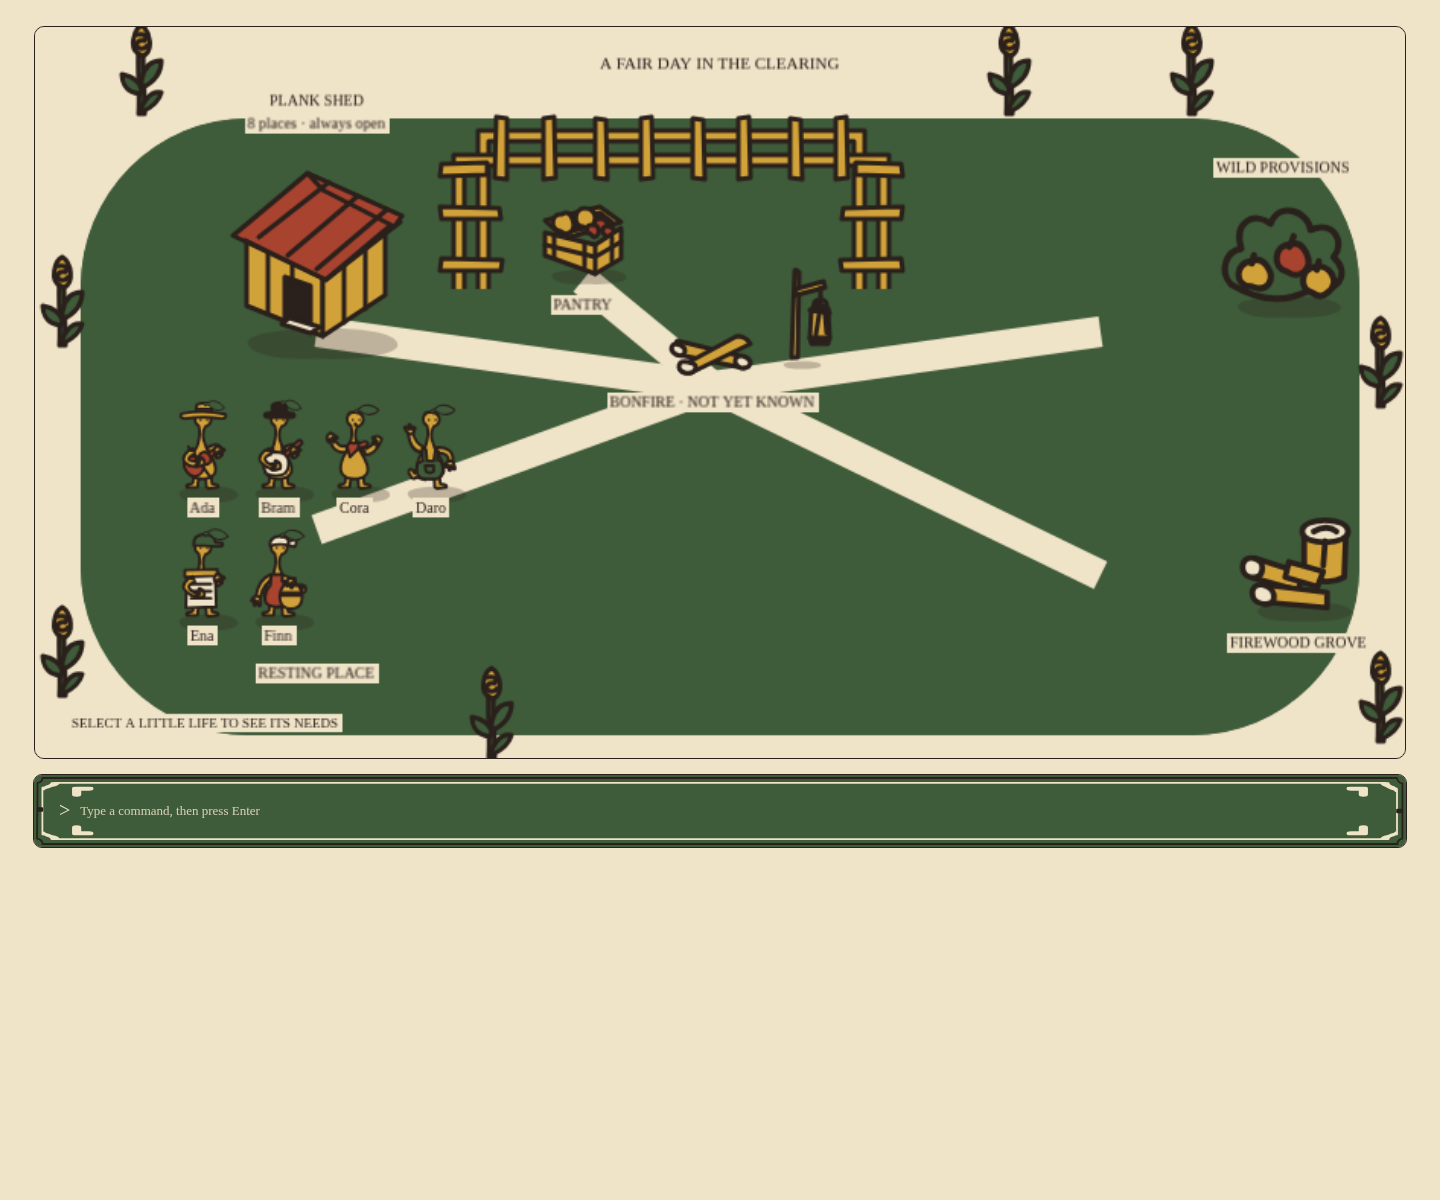
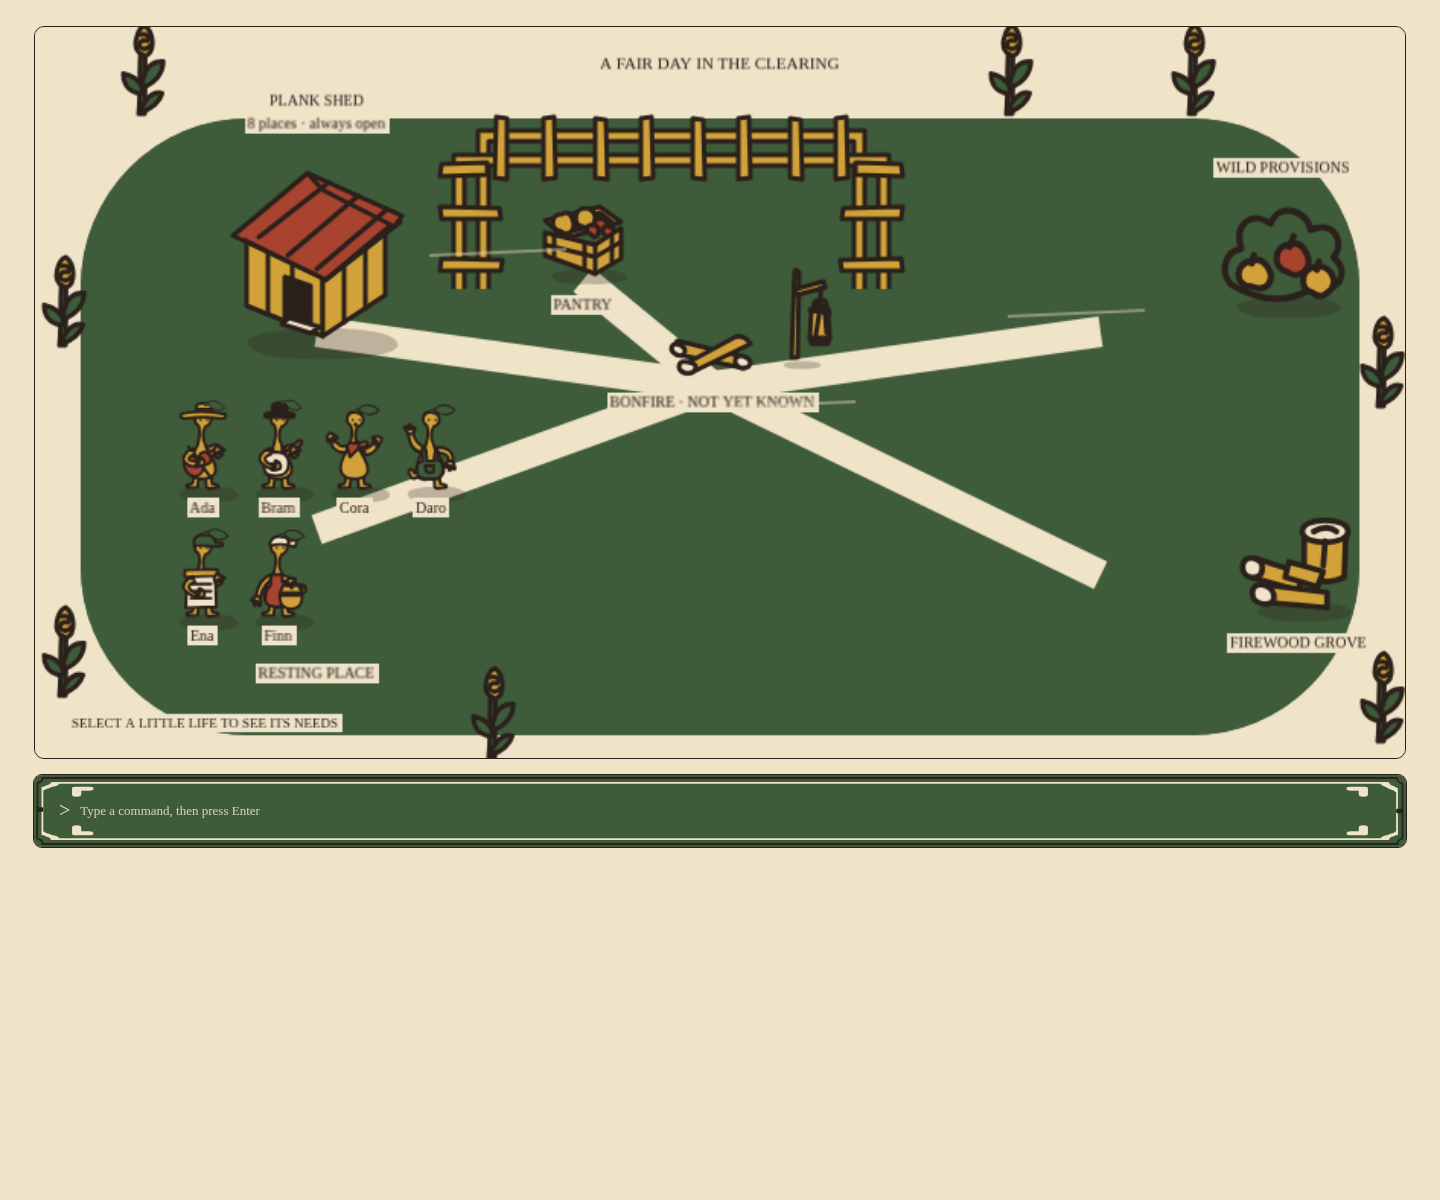
Explain the cruel 97.8% vs 99.5% gap; unmatched-input hook and placeholder gust
- Docs: the cruel numbers are different seed ranges, not a rule change.
  97.8% wiped out is seeds 0-499 (design section 7), 99.5% is seeds 0-199
  (build check). Verified at 78adf26 and ca6942e: identical numbers and
  identical per-seed histories; the accepted-only queue does not affect the
  cruel player. Results table with seed ranges and a changelog added.
- queueText(state, text, { onUnmatched }) fires only when no keyword
  matched (never for accepted or refused matches). The page dispatches a
  'plaything:unmatched' event and, with THEME.ui.unmatchedFeedback 'gust'
  (minimal preset; default 'none'), plays a PLACEHOLDER gust: the existing
  corn sways and three faint plain wind lines drift by (THEME.layout.gust,
  no new art) until the kit art arrives.
- Tests: hook unit test, ui flag tests, ui-smoke gust checks and
  reports/ui-minimal-gust.png.

diff --git a/dist/index.html b/dist/index.html
@@ -1001,6 +1001,9 @@ const THEME = {
     // rest grid beside the Plank shed.
     slots:{columns:4,gapX:50,gapY:84,grids:{rest:[110,290],fire:[370,310],food:[600,150],wood:[600,320]}},
     people:{footOffset:13,childFootOffset:10},
+    // PLACEHOLDER gust for unmatched input (section 11) until the kit art
+    // arrives: the existing corn sways and a few faint plain wind lines drift by.
+    gust:{swayDeg:7,swayMs:260,sways:2,lines:[[140,150],[330,250],[520,190]],lineLength:90,drift:120,lineMs:900,alpha:.45,width:2,color:'cream'},
     animation:{walkMs:1000,learnMs:600,learnWaitMs:350,idleFrameMs:450,walkFrameMs:250,minTravel:.5,motionThreshold:.001,ease:'Sine.easeInOut'},
     canvasText:{color:'ink',background:'cream',padding:{x:2,y:1}},
     text:{base:12,small:10,status:9,weather:11,hint:9,labelY:19,labelMaxWidth:48,glyph:11},
@@ -1191,6 +1194,7 @@ THEME.ui = {
     autoPlaySpeed: null,     // null keeps the sim's start speed; a number sets it on load and restart
     enterRestarts: false,    // Enter in the command box after a wipeout restarts (new seed)
     devOverlay: false,       // developer-only stats + internal log overlay; ?dev=1 also turns it on
+    unmatchedFeedback: 'none', // 'none' | 'gust': answer to typed text with no keyword (section 11)
   },
   presets: {
     minimal: {
@@ -1200,6 +1204,7 @@ THEME.ui = {
       showGoalText:false, showFooter:false, showEndScreenStats:false,
       autoPlaySpeed: 1,      // no buttons, so days run by themselves
       enterRestarts: true,   // no Restart button on screen, so Enter restarts after a wipeout
+      unmatchedFeedback: 'gust', // no feedback line, so a gust rustles the corn instead
     },
   },
   devLogLines: 30,
@@ -2189,9 +2194,11 @@ function queueCommand(s, text) {
 // command, then the normal checks run. No match → { matched: false } and the
 // state is untouched. A refusal or no match never clears the queued command;
 // only a newly accepted command replaces it.
-function queueText(s, text) {
+// `hooks.onUnmatched(text)` fires only when no keyword matched (section 11:
+// the screen may answer with a gust); a match, accepted or refused, never fires it.
+function queueText(s, text, hooks = {}) {
   const command = matchText(s, text);
-  if (command === null) return { ok: false, matched: false, command: null, message: '', state: s };
+  if (command === null) { hooks.onUnmatched?.(text); return { ok: false, matched: false, command: null, message: '', state: s }; }
   return { ...queueCommand(s, command), matched: true };
 }
 function cancelCommand(s) {
@@ -2708,7 +2715,8 @@ function makeVillageScene(getState, onSelect) {
       }
       this.land=this.add.graphics();
       for(const {key,x,y,angle=0,flipX=false} of L.fence){const image=this.image(key,x,y);if(image)image.setAngle(angle).setFlipX(flipX);else THEME.fallbacks[key](this.land,x,y,flipX);}
-      for(const [x,y] of L.corn)if(!this.image('corn',x,y))THEME.fallbacks.corn(this.land,x,y);
+      this.corn=[];
+      for(const [x,y] of L.corn){const image=this.image('corn',x,y);if(image)this.corn.push(image);else THEME.fallbacks.corn(this.land,x,y);}
       // Prop shadows are separate from prop SVGs and remain replaceable.
       for(const key of ['shelter','food_spot','wood_spot','pantry','lantern']) {
         const [x,y]=L.props[key],spec=THEME.assetSpecs[key];
@@ -2784,6 +2792,23 @@ function makeVillageScene(getState, onSelect) {
       const box=o=>{const b=o.getBounds();return [Math.round(b.x),Math.round(b.y),Math.round(b.right),Math.round(b.bottom)];};
       return {people:[...this.people].map(([id,p])=>({id,child:p.child,sprite:box(p.sprite?.visible?p.sprite:p.body),label:box(p.label)})),
         scene:this.sceneLabels.filter(o=>o.text).map(box)};
+    }
+    // PLACEHOLDER gust (unmatched input, section 11): sways the existing corn
+    // images and draws a few faint plain wind lines. No new art; replace when
+    // the kit's gust art arrives. Counted in #village[data-gusts] for tests.
+    gust() {
+      const G=THEME.layout.gust,element=document.querySelector('#village');
+      element.dataset.gusts=String(Number(element.dataset.gusts||0)+1);
+      for(const image of this.corn){
+        this.tweens.killTweensOf(image);image.setAngle(0);
+        this.tweens.add({targets:image,angle:G.swayDeg,duration:G.swayMs,yoyo:true,repeat:G.sways-1,ease:'Sine.easeInOut',onComplete:()=>image.setAngle(0)});
+      }
+      for(const [x,y] of G.lines){
+        const line=this.add.graphics().setDepth(THEME.layout.depth.labels).setAlpha(0);
+        line.lineStyle(G.width,Phaser.Display.Color.HexStringToColor(THEME.palette[G.color]).color,1);
+        line.beginPath();line.moveTo(x,y);line.lineTo(x+G.lineLength,y-4);line.strokePath();
+        this.tweens.add({targets:line,x:G.drift,alpha:{from:0,to:G.alpha},duration:G.lineMs/2,yoyo:true,ease:'Sine.easeInOut',onComplete:()=>line.destroy()});
+      }
     }
     update(time) {
       const s=getState(),L=THEME.layout,element=document.querySelector('#village');
@@ -2931,7 +2956,7 @@ function clearFaint(){
 }
 function select(id){selectedId=id;render();}
 const Scene=makeVillageScene(()=>state,select);
-new Phaser.Game({type:Phaser.CANVAS,...THEME.layout.canvas,parent:'village',
+const game=new Phaser.Game({type:Phaser.CANVAS,...THEME.layout.canvas,parent:'village',
   backgroundColor:THEME.palette.cream,banner:false,audio:{noAudio:true},
   scale:{mode:Phaser.Scale.FIT,autoCenter:Phaser.Scale.CENTER_BOTH},scene:Scene});
 
@@ -3031,13 +3056,19 @@ $('#command-form').addEventListener('submit',e=>{
   // Keyword matcher on every screen (design section 11). No keyword: nothing
   // queued, nothing spent, no message. A match runs the normal checks and the
   // feedback line shows the queued message or the refusal reason as before.
-  const result=queueText(state,$('#command-input').value);
+  const result=queueText(state,$('#command-input').value,{onUnmatched});
   if(!result.matched){render();return;}
   const queued=state.queuedCommand;
   state=result.state;feedback(result.message,!result.ok);if(result.ok)$('#command-input').value='';
   if(state.queuedCommand!==queued)slot.save(state);
   render();
 });
+// Unmatched input (no keyword): a 'plaything:unmatched' event always, and with
+// THEME.ui.unmatchedFeedback 'gust' (minimal preset) the placeholder gust.
+function onUnmatched(text){
+  window.dispatchEvent(new CustomEvent('plaything:unmatched',{detail:{text}}));
+  if(ui.unmatchedFeedback==='gust')game.scene.getScene('village')?.gust?.();
+}
 // The end screen also restarts on Enter when the command box is switched off.
 document.addEventListener('keydown',e=>{
   if(e.key==='Enter'&&state.ended&&!ui.enterRestarts&&!(e.target instanceof HTMLButtonElement)){e.preventDefault();reset();}

diff --git a/src/village-view.js b/src/village-view.js
@@ -49,7 +49,8 @@ export function makeVillageScene(getState, onSelect) {
       }
       this.land=this.add.graphics();
       for(const {key,x,y,angle=0,flipX=false} of L.fence){const image=this.image(key,x,y);if(image)image.setAngle(angle).setFlipX(flipX);else THEME.fallbacks[key](this.land,x,y,flipX);}
-      for(const [x,y] of L.corn)if(!this.image('corn',x,y))THEME.fallbacks.corn(this.land,x,y);
+      this.corn=[];
+      for(const [x,y] of L.corn){const image=this.image('corn',x,y);if(image)this.corn.push(image);else THEME.fallbacks.corn(this.land,x,y);}
       // Prop shadows are separate from prop SVGs and remain replaceable.
       for(const key of ['shelter','food_spot','wood_spot','pantry','lantern']) {
         const [x,y]=L.props[key],spec=THEME.assetSpecs[key];
@@ -125,6 +126,23 @@ export function makeVillageScene(getState, onSelect) {
       const box=o=>{const b=o.getBounds();return [Math.round(b.x),Math.round(b.y),Math.round(b.right),Math.round(b.bottom)];};
       return {people:[...this.people].map(([id,p])=>({id,child:p.child,sprite:box(p.sprite?.visible?p.sprite:p.body),label:box(p.label)})),
         scene:this.sceneLabels.filter(o=>o.text).map(box)};
+    }
+    // PLACEHOLDER gust (unmatched input, section 11): sways the existing corn
+    // images and draws a few faint plain wind lines. No new art; replace when
+    // the kit's gust art arrives. Counted in #village[data-gusts] for tests.
+    gust() {
+      const G=THEME.layout.gust,element=document.querySelector('#village');
+      element.dataset.gusts=String(Number(element.dataset.gusts||0)+1);
+      for(const image of this.corn){
+        this.tweens.killTweensOf(image);image.setAngle(0);
+        this.tweens.add({targets:image,angle:G.swayDeg,duration:G.swayMs,yoyo:true,repeat:G.sways-1,ease:'Sine.easeInOut',onComplete:()=>image.setAngle(0)});
+      }
+      for(const [x,y] of G.lines){
+        const line=this.add.graphics().setDepth(THEME.layout.depth.labels).setAlpha(0);
+        line.lineStyle(G.width,Phaser.Display.Color.HexStringToColor(THEME.palette[G.color]).color,1);
+        line.beginPath();line.moveTo(x,y);line.lineTo(x+G.lineLength,y-4);line.strokePath();
+        this.tweens.add({targets:line,x:G.drift,alpha:{from:0,to:G.alpha},duration:G.lineMs/2,yoyo:true,ease:'Sine.easeInOut',onComplete:()=>line.destroy()});
+      }
     }
     update(time) {
       const s=getState(),L=THEME.layout,element=document.querySelector('#village');

diff --git a/src/main.js b/src/main.js
@@ -75,7 +75,7 @@ function clearFaint(){
 }
 function select(id){selectedId=id;render();}
 const Scene=makeVillageScene(()=>state,select);
-new Phaser.Game({type:Phaser.CANVAS,...THEME.layout.canvas,parent:'village',
+const game=new Phaser.Game({type:Phaser.CANVAS,...THEME.layout.canvas,parent:'village',
   backgroundColor:THEME.palette.cream,banner:false,audio:{noAudio:true},
   scale:{mode:Phaser.Scale.FIT,autoCenter:Phaser.Scale.CENTER_BOTH},scene:Scene});
 
@@ -175,13 +175,19 @@ $('#command-form').addEventListener('submit',e=>{
   // Keyword matcher on every screen (design section 11). No keyword: nothing
   // queued, nothing spent, no message. A match runs the normal checks and the
   // feedback line shows the queued message or the refusal reason as before.
-  const result=queueText(state,$('#command-input').value);
+  const result=queueText(state,$('#command-input').value,{onUnmatched});
   if(!result.matched){render();return;}
   const queued=state.queuedCommand;
   state=result.state;feedback(result.message,!result.ok);if(result.ok)$('#command-input').value='';
   if(state.queuedCommand!==queued)slot.save(state);
   render();
 });
+// Unmatched input (no keyword): a 'plaything:unmatched' event always, and with
+// THEME.ui.unmatchedFeedback 'gust' (minimal preset) the placeholder gust.
+function onUnmatched(text){
+  window.dispatchEvent(new CustomEvent('plaything:unmatched',{detail:{text}}));
+  if(ui.unmatchedFeedback==='gust')game.scene.getScene('village')?.gust?.();
+}
 // The end screen also restarts on Enter when the command box is switched off.
 document.addEventListener('keydown',e=>{
   if(e.key==='Enter'&&state.ended&&!ui.enterRestarts&&!(e.target instanceof HTMLButtonElement)){e.preventDefault();reset();}

diff --git a/src/theme.js b/src/theme.js
@@ -907,6 +907,9 @@ export const THEME = {
     // rest grid beside the Plank shed.
     slots:{columns:4,gapX:50,gapY:84,grids:{rest:[110,290],fire:[370,310],food:[600,150],wood:[600,320]}},
     people:{footOffset:13,childFootOffset:10},
+    // PLACEHOLDER gust for unmatched input (section 11) until the kit art
+    // arrives: the existing corn sways and a few faint plain wind lines drift by.
+    gust:{swayDeg:7,swayMs:260,sways:2,lines:[[140,150],[330,250],[520,190]],lineLength:90,drift:120,lineMs:900,alpha:.45,width:2,color:'cream'},
     animation:{walkMs:1000,learnMs:600,learnWaitMs:350,idleFrameMs:450,walkFrameMs:250,minTravel:.5,motionThreshold:.001,ease:'Sine.easeInOut'},
     canvasText:{color:'ink',background:'cream',padding:{x:2,y:1}},
     text:{base:12,small:10,status:9,weather:11,hint:9,labelY:19,labelMaxWidth:48,glyph:11},
@@ -1097,6 +1100,7 @@ THEME.ui = {
     autoPlaySpeed: null,     // null keeps the sim's start speed; a number sets it on load and restart
     enterRestarts: false,    // Enter in the command box after a wipeout restarts (new seed)
     devOverlay: false,       // developer-only stats + internal log overlay; ?dev=1 also turns it on
+    unmatchedFeedback: 'none', // 'none' | 'gust': answer to typed text with no keyword (section 11)
   },
   presets: {
     minimal: {
@@ -1106,6 +1110,7 @@ THEME.ui = {
       showGoalText:false, showFooter:false, showEndScreenStats:false,
       autoPlaySpeed: 1,      // no buttons, so days run by themselves
       enterRestarts: true,   // no Restart button on screen, so Enter restarts after a wipeout
+      unmatchedFeedback: 'gust', // no feedback line, so a gust rustles the corn instead
     },
   },
   devLogLines: 30,

diff --git a/tests/ui.test.js b/tests/ui.test.js
@@ -16,6 +16,7 @@ test('default flags show everything (but the removed no-save notice) and keep th
   assert.equal(ui.autoPlaySpeed,null);
   assert.equal(ui.enterRestarts,false,'the full screen restarts with its Restart button');
   assert.equal(ui.devOverlay,false,'developer overlay is off by default');
+  assert.equal(ui.unmatchedFeedback,'none','no answer to unmatched input on the full screen');
   assert.deepEqual(uiHiddenClasses(ui),['ui-hide-showNotice']);
   assert.deepEqual(resolveUi('no-such-preset'),ui);
   assert.deepEqual(resolveUi(null,{bogus:false}),ui,'unknown flags are dropped');
@@ -26,6 +27,7 @@ test('minimal preset turns off every HUD and panel flag', ()=>{
   for(const k of showFlags)assert.equal(ui[k],false,k);
   assert.equal(ui.autoPlaySpeed,1,'no buttons, so the days must run by themselves');
   assert.equal(ui.enterRestarts,true,'minimal: Enter restarts after a wipeout');
+  assert.equal(ui.unmatchedFeedback,'gust','minimal: unmatched input gets the placeholder gust');
   assert.equal(ui.devOverlay,false);
   assert.equal(uiHiddenClasses(ui).length,Object.keys(THEME.ui.targets).length);
   assert.equal(resolveUi('minimal',{showJournal:true}).showJournal,true,'overrides win over the preset');

diff --git a/tests/v02.test.js b/tests/v02.test.js
@@ -295,3 +295,20 @@ describe('Keyword matcher (Minimal UI, section 11)', () => {
       assert.equal(queueText(calm({ version: 'v0.2' }), word).matched, true, word);
   });
 });
+
+describe('Unmatched-input hook (section 11)', () => {
+  test('onUnmatched fires for text with no keyword, never for a matched command (accepted or refused)', () => {
+    const calls = [], hooks = { onUnmatched: text => calls.push(text) };
+    let s = seededState({}, 4);
+    assert.equal(queueText(s, 'make a dragon', hooks).matched, false);
+    assert.equal(queueText(s, 'brain', hooks).matched, false);
+    assert.deepEqual(calls, ['make a dragon', 'brain']);
+    const accepted = queueText(s, 'drop us a feast', hooks);
+    assert.ok(accepted.ok && accepted.matched);
+    s = { ...s, power: 0 };
+    const refused = queueText(s, 'hoedown', hooks);
+    assert.ok(!refused.ok && refused.matched);
+    assert.deepEqual(calls, ['make a dragon', 'brain'], 'matched input never fires the hook');
+    assert.doesNotThrow(() => queueText(s, 'nothing here')); // hooks are optional
+  });
+});

diff --git a/src/sim.js b/src/sim.js
@@ -199,9 +199,11 @@ export function queueCommand(s, text) {
 // command, then the normal checks run. No match → { matched: false } and the
 // state is untouched. A refusal or no match never clears the queued command;
 // only a newly accepted command replaces it.
-export function queueText(s, text) {
+// `hooks.onUnmatched(text)` fires only when no keyword matched (section 11:
+// the screen may answer with a gust); a match, accepted or refused, never fires it.
+export function queueText(s, text, hooks = {}) {
   const command = matchText(s, text);
-  if (command === null) return { ok: false, matched: false, command: null, message: '', state: s };
+  if (command === null) { hooks.onUnmatched?.(text); return { ok: false, matched: false, command: null, message: '', state: s }; }
   return { ...queueCommand(s, command), matched: true };
 }
 export function cancelCommand(s) {

diff --git a/docs/IMPLEMENTATION.md b/docs/IMPLEMENTATION.md
@@ -6,6 +6,18 @@ v0.2 follows the live design Page (sections 10 and 11, rule clarifications of
 Barn/House Age roadmap is implemented. Simulation numbers live in
 `src/config.js` and match the design and the reference simulator.
 
+## Changelog (Europe/Vilnius)
+
+- 12 Nov 2026: Cruel "97.8% vs 99.5% wiped out" explained. Both numbers are
+  correct; they are different seed ranges, not a rule change. 97.8% is seeds
+  0–499 (the design's section 7 target), 99.5% is seeds 0–199 (the build-check
+  fixture). JS gives exactly those numbers at both 78adf26 (before the
+  follow-up) and ca6942e, with identical per-seed histories on seeds 0–499. The
+  accepted-only queue did not change the cruel player: it only queues commands
+  that already pass the checks.
+- 12 Nov 2026: unmatched-input hook and the placeholder gust
+  (`THEME.ui.unmatchedFeedback`, see "UI switches").
+
 ## Exact day sequencing
 
 `stepDay` clones its input, increments the day label, then performs the design's
@@ -300,8 +312,19 @@ kept lines, and their count, seed by seed against the Python reference.
   the copper/tin outcrops and the Tinker-shed site (their art and their real
   places in the clearing) come after the Artist's mockup is approved; until then
   the shed and the outcrops appear only as journal lines, and the Plank-shed
-  label in the clearing still reads 8 places. Local save/load (also in the v0.2
-  draft) is not started; its spec comes later.
+  label in the clearing still reads 8 places. Save and load has its own section
+  below.
+- Results, 60 days, v0.2 + traits (JS equals Python seed for seed in every
+  cell; the seed range is part of each number):
+
+  | Strategy | Seeds 0–199 (build check) | Seeds 0–499 (design section 7) |
+  |---|---|---|
+  | Untouched | 94.0% alive, 6.0% wiped out | 94.0% alive, 6.0% wiped out |
+  | Helped | 100% alive | 100% alive |
+  | Cruel | 0.5% alive, **99.5% wiped out** | 2.2% alive, **97.8% wiped out** |
+
+  The cruel gap is just the range (seeds 200–499 are a little kinder to the
+  cruel player). Measured identical at 78adf26 and ca6942e; see the changelog.
 - Checks: `tests/v02.test.js` compares all 600 runs (seeds 0–199 × untouched,
   helped, cruel; 60 days) with `tests/fixtures/python-v02-traits-seeds-0-199.json`:
   the summary facts plus SHA-256 digests of the day-by-day history, every trait
@@ -418,8 +441,21 @@ preview until its mockup and spec are approved.
   refused command shows its reason only where the feedback line is shown (not in
   the minimal preview). Either way the input text stays and the queued command
   is kept. The placeholder reads "Type a command, then press Enter".
+- **Unmatched input (section 11: a gust rustles the corn).** The command path
+  has one hook: `queueText(state, text, { onUnmatched })` calls
+  `onUnmatched(text)` only when no keyword matched; a matched command, accepted
+  or refused, never fires it. The page always dispatches a
+  `plaything:unmatched` window event, then acts on
+  `THEME.ui.unmatchedFeedback`: `'none'` (default; the full screen stays silent)
+  or `'gust'` (the minimal preset). **Placeholder until the kit art arrives:**
+  the gust sways the existing corn images a few degrees and draws 3 faint plain
+  cream wind lines that drift and fade (`THEME.layout.gust`; no new art; in the
+  plain-shape fallback only the lines show). `#village[data-gusts]` counts gusts
+  for tests. Tested in `tests/v02.test.js` (hook) and `scripts/ui-smoke.mjs`
+  (minimal gusts on unmatched only; default fires the event with no gust;
+  screenshot `reports/ui-minimal-gust.png`).
 
-Checks: `tests/ui.test.js` (defaults all on, the minimal preset all off, every flag
+Checks: `tests/ui.test.js` (defaults all on but the no-save notice, the minimal preset all off, every flag
 targets real parts of `index.html`, the sim never reads the switches) and
 `scripts/ui-smoke.mjs` (headless browser on `dist/index.html`). With default
 flags nothing is switched off and there is no developer overlay. With

diff --git a/README.md b/README.md
@@ -205,7 +205,10 @@ The survival rebalance matches the reference simulator
 500–699 and 1000–1199. Seeds 0–199, 60 days: untouched 94.5% alive (5.5% wiped
 out, 81% lose someone, Bonfire 96%, median day 22); helped 100% alive, 97.5%
 reach 8, 8.5% lose someone; cruel 97% wiped out. `npm run report` prints the
-table. See `reports/verification.md` for current unit/browser results.
+table. v0.2 + traits, 60 days, JS equals Python seed for seed: seeds 0–199
+untouched 94.0% alive, helped 100%, cruel 99.5% wiped out; seeds 0–499 (design
+section 7) the same except cruel 97.8% wiped out. The cruel difference is only
+the seed range. See `reports/verification.md` for current unit/browser results.
 
 This follow-up used **local git only: no fetch, pull, rebase or push**. The parent
 will handle its fresh archive and GitHub history alignment separately.
